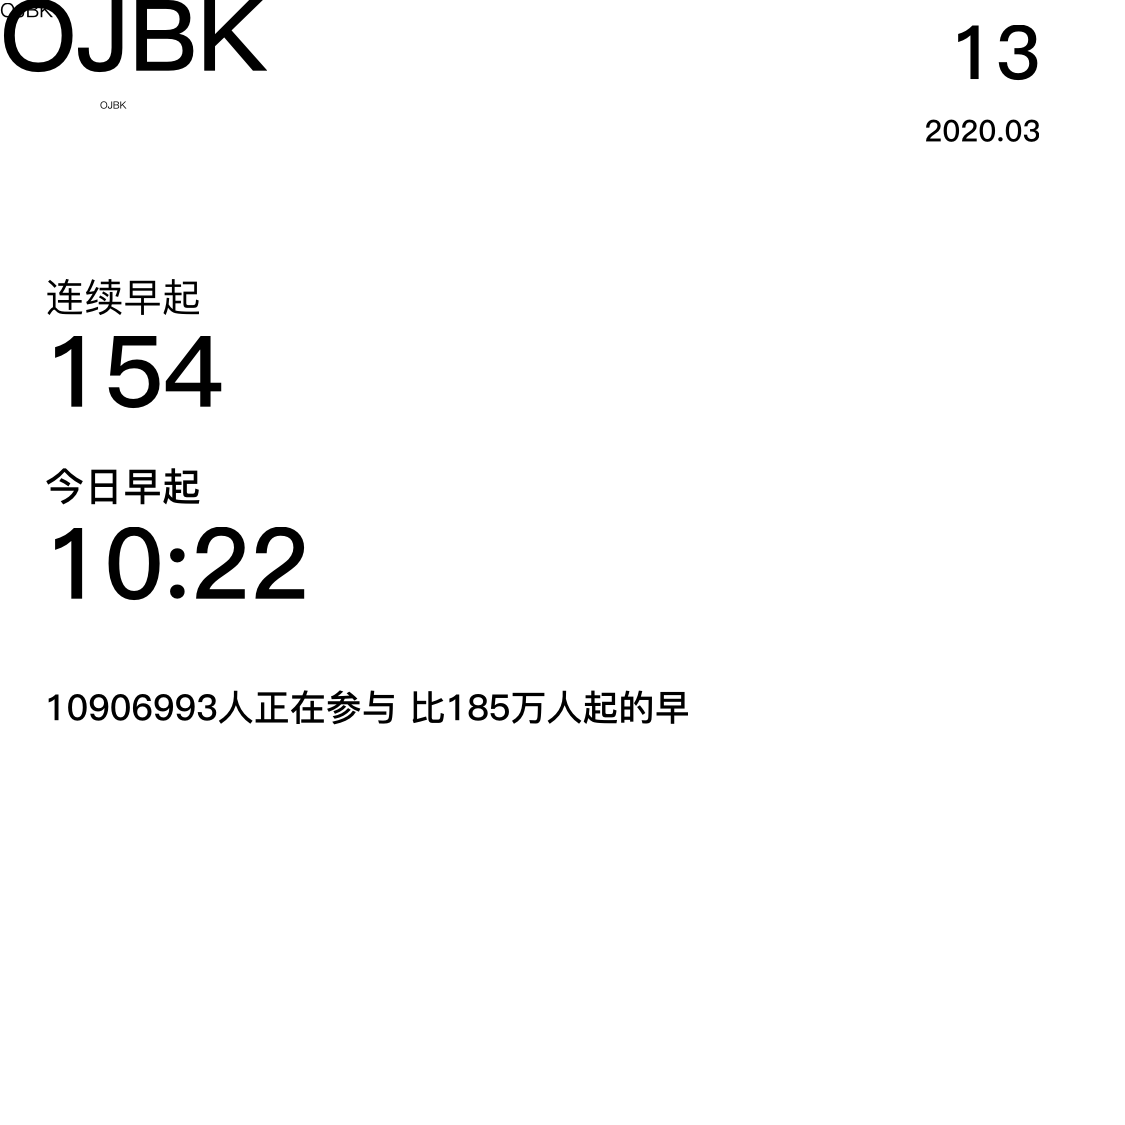
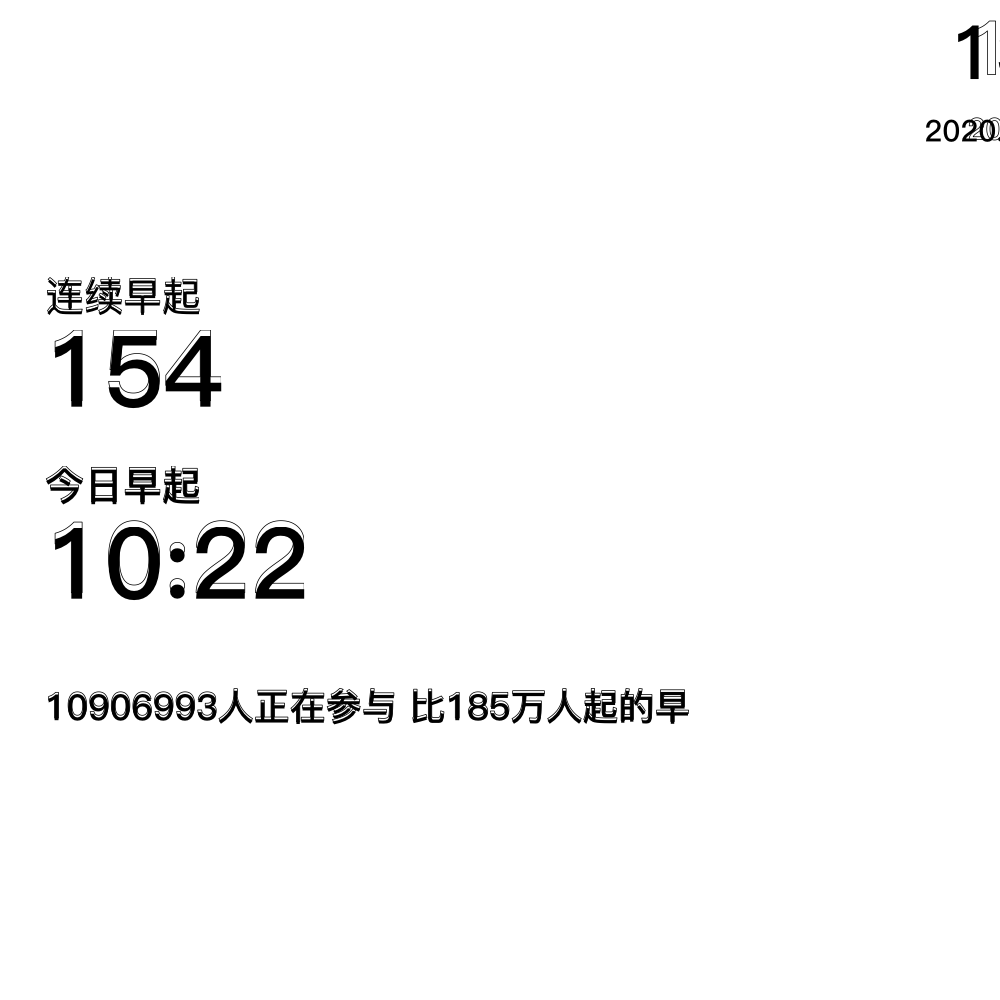
test: stroke

diff --git a/src/canvas/canvas.go b/src/canvas/canvas.go
@@ -22,25 +22,157 @@ func (c *Canvas) Draw(d []Drawer) {
 
 	ctx := canvas.NewContext(c)
 
+	// 对画布进行一次位移调整，拉回到左上角
+	// 注意绘制反向仍然是反向
 	matrix := canvas.Identity.Translate(0, c.H)
 	ctx.SetView(matrix)
 
-	// 数据转换
+	// // 数据转换
+	// text := Text{
+	// 	X:          100,
+	// 	Y:          100,
+	// 	Size:       90,
+	// 	LineHeight: 40,
+	// 	Color:      "#000000",
+	// 	Content:    "测试的文字，我爱北京天安门",
+	// 	FontStyle:  400,
+	// 	FontFamily: "PingFang",
+	// }
 
+	// text.Draw(ctx)
+
+	fmt.Println("canvas_draw", c)
+
+	text := Text{
+		X: 45,
+		Y: 277.5,
+		// Y:          185,
+		Size:       39,
+		LineHeight: 39,
+		Color:      "#000000",
+		Content:    "连续早起",
+		FontStyle:  400,
+		FontFamily: "PingFang",
+	}
+
+	text.Draw(ctx)
+
+	text = Text{
+		X: 45,
+		Y: 336,
+		// Y:          224,
+		Size:       99,
+		LineHeight: 99,
+		Color:      "#000000",
+		Content:    "154",
+		FontStyle:  700,
+		FontFamily: "PingFang",
+	}
+
+	text.Draw(ctx)
+
+	text = Text{
+		X: 45,
+		Y: 472.5,
+		// Y:          315,
+		Size:       39,
+		LineHeight: 39,
+		Color:      "#000000",
+		Content:    "今日早起",
+		FontStyle:  700,
+		FontFamily: "PingFang",
+	}
+
+	text.Draw(ctx)
+
+	text = Text{
+		X: 45,
+		Y: 528,
+		// Y:          352,
+		Size:       99,
+		LineHeight: 99,
+		Color:      "#000000",
+		Content:    "10:22",
+		FontStyle:  700,
+		FontFamily: "PingFang",
+	}
+
+	text.Draw(ctx)
+
+	text = Text{
+		X: 45,
+		Y: 694.5,
+		// Y:          463,
+		Size:       36,
+		LineHeight: 36,
+		Color:      "#000000",
+		Content:    "10906993人正在参与 比185万人起的早",
+		FontStyle:  700,
+		FontFamily: "PingFang",
+		Limit:      250,
+	}
+
+	text.Draw(ctx)
+
+	text = Text{
+		X: 967.5,
+		// X: 645,
+		Y: 25.5,
+		// Y:          17,
+		Size:       75,
+		LineHeight: 75,
+		Color:      "#000000",
+		Content:    "13",
+		FontStyle:  700,
+		FontFamily: "PingFang",
+		// Limit:      217,
+		Limit: 73,
+		Align: 1, // right
+	}
+
+	text.Draw(ctx)
+
+	text = Text{
+		X: 967.5,
+		// X: 645,
+		Y: 120,
+		// Y:          80,
+		Size:       30,
+		LineHeight: 30,
+		Color:      "#000000",
+		Content:    "2020.03",
+		FontStyle:  700,
+		FontFamily: "PingFang",
+		Align:      1, // right
+		// Limit:      217,
+		Limit: 73,
+	}
+
+	text.Draw(ctx)
 }
 
 // CreateImage is api entry
 func CreateImage(d []Drawer, g GlobalConfig) {
+	Setup()
+
 	c := Canvas{canvas.New(g.Width, g.Height)}
 
 	// 对*canvas.Draw函数传入绘图数据
 	c.Draw(d)
 
+	// SavePNG的第二个参数是canvas导出时放大的倍数
 	// 尽量导出2x或者3x的尺寸，但坐标是1x的，需要更多测试
 	c.SavePNG(g.FileName, 1)
 
 	fmt.Println("create image", len(d), g)
 }
+
+// func compatibleData(d Drawer) {
+// 	switch (d.type) {
+
+// 	}
+
+// }
 
 // uploadImg todo...
 func uploadImg() {}

diff --git a/src/canvas/text.go b/src/canvas/text.go
@@ -30,9 +30,16 @@ func (t *Text) Draw(c *canvas.Context) {
 	// size float64, col color.Color, style FontStyle, variant FontVariant
 	// canvas.FontNormal
 	face := fontFamily[fontKey].Face(t.Size*ptPerMm, color, t.FontStyle, canvas.FontNormal)
+
 	// face := fontFamily[fontKey].Face(t.Size, color, t.FontStyle, canvas.FontNormal)
 	metrics := face.Metrics()
 	diff := metrics.Ascent - metrics.CapHeight
+
+	// TODO: stroke
+
+	fmt.Println("draw stroke", t.X, t.Y*-1+diff+t.LineHeight, content)
+	p, _ := face.ToPath(content)
+	c.DrawPath(t.X, t.Y*-1+diff-t.LineHeight, p.Stroke(0.75, canvas.RoundCap, canvas.RoundJoin))
 
 	fmt.Println("metrics", metrics.Ascent, metrics.CapHeight, diff)
 	fmt.Println("line_break", limit, lineStretch)

diff --git a/src/canvas/canvas_test.go b/src/canvas/canvas_test.go
@@ -8,7 +8,7 @@ import (
 // 测试画图主入口的参数传入
 func TestCreateImage(t *testing.T) {
 	// TODO: 临时测试代码
-	Setup()
+	// Setup()
 
 	var data []Drawer
 
@@ -17,7 +17,11 @@ func TestCreateImage(t *testing.T) {
 		y: 2,
 	}
 	data = append(data, &i)
-	global := GlobalConfig{}
+	global := GlobalConfig{
+		Width:    1000,
+		Height:   1000,
+		FileName: "out.png",
+	}
 
 	CreateImage(data, global)
 }

diff --git a/src/canvas/canvas_type.go b/src/canvas/canvas_type.go
@@ -2,6 +2,10 @@ package canvas
 
 import "github.com/tdewolff/canvas"
 
+type DrawWrapper struct {
+	DrawType string `json:type`
+}
+
 // Drawer is general interface
 type Drawer interface {
 	Draw(c *canvas.Context)
